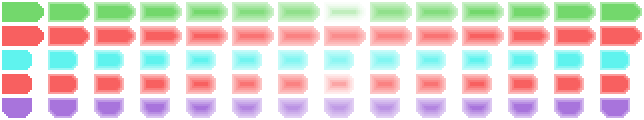
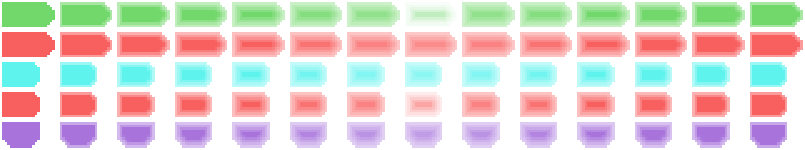
[NEW] Resized most of the assets to x5 resolution [NEW] Shifting focus from projectiles to attack menu and feedback [FIX] Glowy Nate shows up strangely

diff --git a/Schooled 2.0/Schooled/src/Projectile.cpp b/Schooled 2.0/Schooled/src/Projectile.cpp
@@ -17,6 +17,8 @@ namespace Projectile
 
 	Projectile::Projectile(tinyxml2::XMLElement const* projElement)
 	{
+		timeElapsed = 0.0;
+
 		const char* projName = projElement->Attribute("name");
 		if (projName == NULL)
 		{
@@ -108,7 +110,7 @@ namespace Projectile
 		{
 			Vector::Vector2 distance = player.getPos() - tilePos + offset;
 			Vector::Vector2 velocity((distance.getX() * -1.0) / timeToTarget, 0.0);
-			setVelocity(Vector::Vector2(velocity.getX(), getVelocity().getY()));
+			setVelocity(Vector::Vector2(velocity.getX(), velocity.getY()));
 		}
 	}
 
@@ -123,6 +125,13 @@ namespace Projectile
 		{
 			delay -= static_cast<double>(1.0 / schooled::FRAMERATE);
 			return;
+		}
+
+		timeElapsed += static_cast<double>(1.0 / schooled::FRAMERATE);
+		if (timeElapsed >= timeToTarget)
+		{
+			//std::cout << "Reached Target" << std::endl;
+			setActing(false);
 		}
 
 		if (hasGravity)

diff --git a/Schooled 2.0/include/Board.h b/Schooled 2.0/include/Board.h
@@ -18,12 +18,12 @@ namespace Sprite
 
 namespace Board
 {
-	float const OFFSET_X = 80;
-	float const OFFSET_Y = 270;
+	float const OFFSET_X = 100;
+	float const OFFSET_Y = 337;
 	float const CENTER_X = schooled::SCREEN_WIDTH_PX / 2;
-	int const ROW_WIDTH = 80;
-	int const ROW_HEIGHT = 60;
-	int const ROW_OFFSET = 60;
+	int const ROW_WIDTH = 100;
+	int const ROW_HEIGHT = 75;
+	int const ROW_OFFSET = 75;
 
 	struct Tile
 	{

diff --git a/Schooled 2.0/include/Schooled.h b/Schooled 2.0/include/Schooled.h
@@ -10,8 +10,8 @@ namespace schooled
 	float const CAMERA_MAX_ACCELERATION = 2;
 	int const FRAMERATE = 60;
 	float const SCALE = 1.0f;
-	int const SCREEN_HEIGHT_PX = 576;
-	int const SCREEN_WIDTH_PX = 1024;
+	int const SCREEN_HEIGHT_PX = 720;
+	int const SCREEN_WIDTH_PX = 1280;
 
 	// Return the setting that the key is attached to
 	std::string getSetting(std::string);

diff --git a/Schooled 2.0/Schooled/src/BattleState.cpp b/Schooled 2.0/Schooled/src/BattleState.cpp
@@ -40,7 +40,7 @@ namespace BattleState
 
 		board1 = new Board::Board(Side::LEFT);
 		board2 = new Board::Board(Side::RIGHT);
-		player1 = new Player::Player("GlowyNate", *board1);
+		player1 = new Player::Player("Nate", *board1);
 		player2 = new Player::Player("Gym Teacher", *board2);
 		stage = new Stage::Stage("Default", player1, player2);
 

diff --git a/Schooled 2.0/Schooled/src/Player.cpp b/Schooled 2.0/Schooled/src/Player.cpp
@@ -510,7 +510,10 @@ namespace Player
 				tempProj.push_back((*it));
 			}
 		}
-		if (tempProj.size() > 0) { activeProjectiles = tempProj; }
+		if (tempProj.size() != activeProjectiles.size()) 
+		{ 
+			activeProjectiles = tempProj; 
+		}
 		
 	}
 

diff --git a/Schooled 2.0/include/Projectile.h b/Schooled 2.0/include/Projectile.h
@@ -45,6 +45,7 @@ namespace Projectile
 		bool collides;
 		double delay;
 		bool hasTarget;
+		double timeElapsed;
 		double timeToTarget;
 		Vector::Vector2 offset;
 	};
